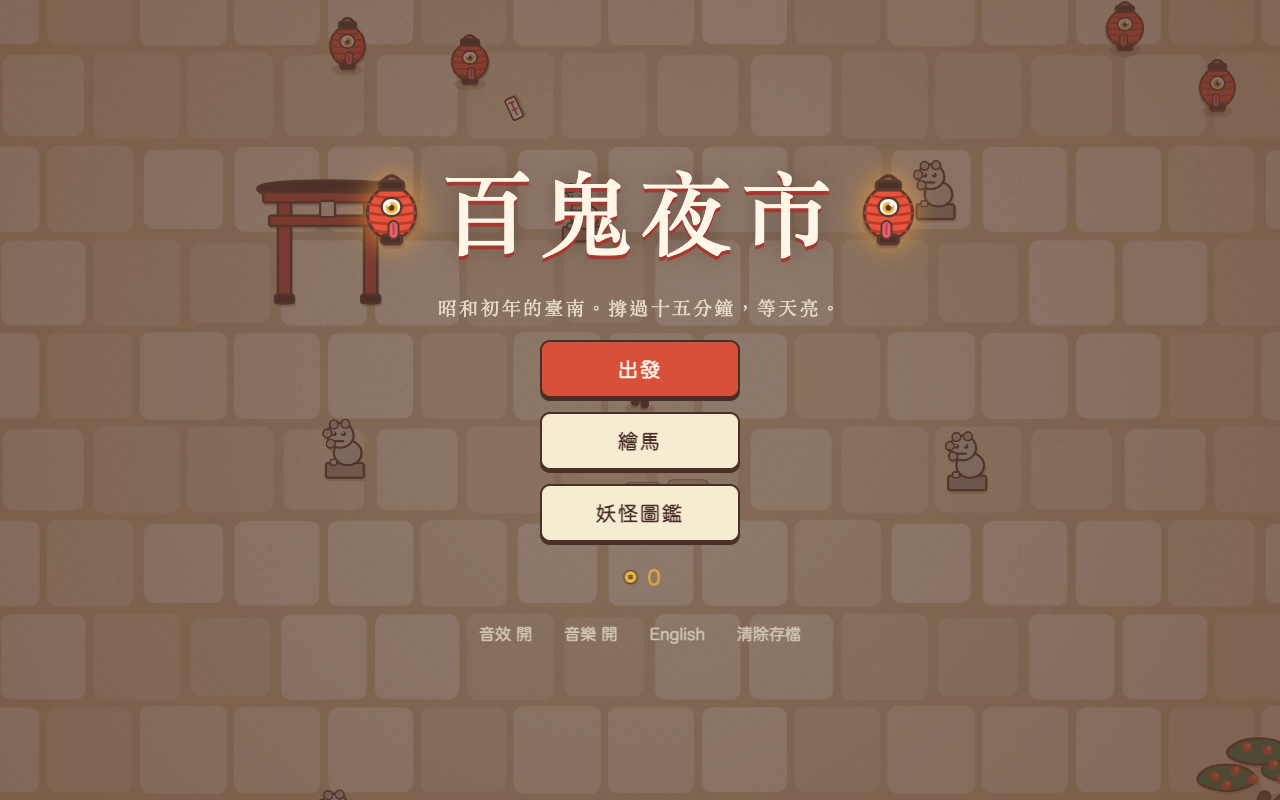
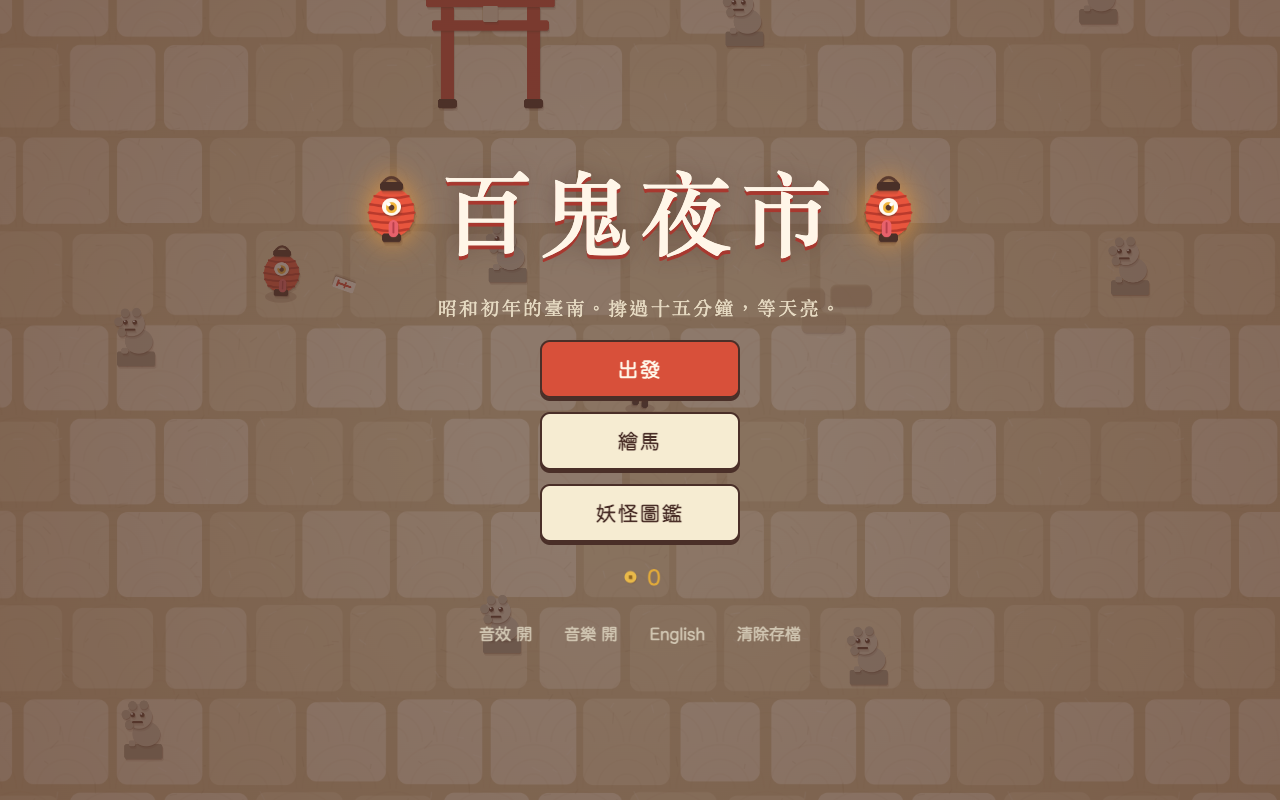
Yokai Night Market: sprites are stacked paper sheets
The drawing kit no longer outlines anything. Every filled shape and thick strip
is its own cut sheet, pressed onto the stack with a contact shadow and a soft
one, so volume comes from stacking order alone. Thin lines and dots are printed
on the top sheet. Figures rock around their feet instead of squashing, and the
hit flash is vermilion so it shows on the light ground.

Claude-Session: https://claude.ai/code/session_01SWmRBCoZi5zDewCs1B5KjF

diff --git a/yokai-night-market/src/render/kit.ts b/yokai-night-market/src/render/kit.ts
@@ -1,36 +1,63 @@
-// Small vector drawing kit. Every sprite is drawn once into an offscreen canvas in a
-// "paper sticker" style: flat fills, one dark outline, round joins.
+// Paper-doll drawing kit.
+//
+// Nothing here is outlined. A sprite is a stack of cut paper sheets: every filled shape
+// (and every thick strip) is its own sheet laid on top of the ones before it, and each sheet
+// drops a tight contact shadow plus a softer one onto whatever lies beneath. Volume comes only
+// from that stacking order, so a draw function should go back to front: far limbs, body,
+// head, hair, then what is glued on the face. Thin lines and dots are "printed" on the sheet
+// that is currently on top and cast no shadow.
 export type C = CanvasRenderingContext2D;
 export const TAU = Math.PI * 2;
 export const INK = '#5a3a2e';
-const LINE = 0.72; // outlines are kept thin so shapes read as cut paper
-export const RES = 3; // sprite supersampling
+const LINE = 0.72;      // printed line weight
+const SHADE = '#5a3626'; // colour of the shadow one sheet casts on the next
+export const RES = 3;   // sprite supersampling
 
 export interface Sprite { c: HTMLCanvasElement; w: number; h: number; ox: number; oy: number; flash?: HTMLCanvasElement; url?: string }
 
-// The draw callback works in logical pixels with the origin at the feet (bottom centre), y up negative.
-export function sprite(w: number, h: number, draw: (c: C) => void, pad = 4): Sprite {
+interface Stack { top: C; out: C; sil: C }
+let stack: Stack | null = null;
+
+// Presses the sheet being drawn onto the stack, with its shadows, and starts a fresh one.
+function press(st: Stack): void {
+  const cv = st.top.canvas, sil = st.sil;
+  sil.globalCompositeOperation = 'source-over';
+  sil.clearRect(0, 0, cv.width, cv.height);
+  sil.drawImage(cv, 0, 0);
+  sil.globalCompositeOperation = 'source-in';
+  sil.fillStyle = SHADE; sil.fillRect(0, 0, cv.width, cv.height);
+  st.out.globalAlpha = 0.13; st.out.drawImage(sil.canvas, 0.9 * RES, 1.9 * RES);
+  st.out.globalAlpha = 0.3; st.out.drawImage(sil.canvas, 0.35 * RES, 0.75 * RES);
+  st.out.globalAlpha = 1; st.out.drawImage(cv, 0, 0);
+  st.top.save(); st.top.setTransform(1, 0, 0, 1, 0, 0); st.top.clearRect(0, 0, cv.width, cv.height); st.top.restore();
+}
+
+// Starts a new sheet above everything drawn so far. Filled shapes call this themselves;
+// call it by hand only to lift a group of printed marks onto its own layer.
+export function sheet(c: C): void {
+  if (stack && stack.top === c) press(stack);
+}
+
+function layer(w: number, h: number): C {
   const cv = document.createElement('canvas');
+  cv.width = w; cv.height = h;
+  return cv.getContext('2d')!;
+}
+
+// The draw callback works in logical pixels with the origin at the feet (bottom centre), y up negative.
+export function sprite(w: number, h: number, draw: (c: C) => void, pad = 5): Sprite {
   const W = w + pad * 2, H = h + pad * 2;
-  cv.width = Math.ceil(W * RES); cv.height = Math.ceil(H * RES);
-  const art = document.createElement('canvas');
-  art.width = cv.width; art.height = cv.height;
-  const c = art.getContext('2d')!;
-  c.scale(RES, RES);
-  c.translate(W / 2, H - pad);
-  c.lineJoin = 'round'; c.lineCap = 'round';
-  draw(c);
-  // a soft offset silhouette under the art, like one sheet of paper lying on another
-  const sil = document.createElement('canvas');
-  sil.width = cv.width; sil.height = cv.height;
-  const sc = sil.getContext('2d')!;
-  sc.drawImage(art, 0, 0);
-  sc.globalCompositeOperation = 'source-in';
-  sc.fillStyle = '#6a4632'; sc.fillRect(0, 0, sil.width, sil.height);
-  const out = cv.getContext('2d')!;
-  out.globalAlpha = 0.3; out.drawImage(sil, 0.7 * RES, 1.5 * RES);
-  out.globalAlpha = 1; out.drawImage(art, 0, 0);
-  return { c: cv, w: W, h: H, ox: W / 2, oy: H - pad };
+  const pw = Math.ceil(W * RES), ph = Math.ceil(H * RES);
+  const out = layer(pw, ph), top = layer(pw, ph), sil = layer(pw, ph);
+  top.scale(RES, RES);
+  top.translate(W / 2, H - pad);
+  top.lineJoin = 'round'; top.lineCap = 'round';
+  const prev = stack;
+  stack = { top, out, sil };
+  draw(top);
+  press(stack);
+  stack = prev;
+  return { c: out.canvas, w: W, h: H, ox: W / 2, oy: H - pad };
 }
 
 export function flashOf(s: Sprite): HTMLCanvasElement {
@@ -40,7 +67,7 @@ export function flashOf(s: Sprite): HTMLCanvasElement {
     const c = cv.getContext('2d')!;
     c.drawImage(s.c, 0, 0);
     c.globalCompositeOperation = 'source-atop';
-    c.fillStyle = '#ffffff';
+    c.fillStyle = '#ff8a6a';
     c.fillRect(0, 0, cv.width, cv.height);
     s.flash = cv;
   }
@@ -52,9 +79,21 @@ export function urlOf(s: Sprite): string {
   return s.url;
 }
 
+// Fills the current path. A shape given a line weight is a cut sheet of its own (the weight is
+// only a flag now: sheets have no outline); weight 0 prints the fill on the sheet below.
+// With no fill, the path is printed as a thin line.
 export function fs(c: C, fill: string | null, lw = 2): void {
-  if (fill) { c.fillStyle = fill; c.fill(); }
-  if (lw > 0) { c.lineWidth = lw * LINE; c.strokeStyle = INK; c.stroke(); }
+  if (fill) {
+    if (lw > 0) sheet(c);
+    c.fillStyle = fill; c.fill();
+  } else if (lw > 0) { c.lineWidth = lw * LINE; c.strokeStyle = INK; c.stroke(); }
+}
+
+// A stroke: thick coloured strokes are paper strips (their own sheet), thin ones are printed.
+function strip(c: C, col: string, lw: number): void {
+  if (col === INK && lw >= 4) return;          // old outline underlay, not part of the paper logic
+  if (col !== INK && lw >= 2.4) sheet(c);
+  c.lineWidth = col === INK ? lw * 0.85 : lw; c.strokeStyle = col; c.stroke();
 }
 
 export function ell(c: C, x: number, y: number, rx: number, ry: number, fill: string | null, lw = 2, rot = 0): void {
@@ -102,12 +141,12 @@ export function line(c: C, pts: number[], col = INK, lw = 2): void {
   c.beginPath();
   c.moveTo(pts[0], pts[1]);
   for (let i = 2; i < pts.length; i += 2) c.lineTo(pts[i], pts[i + 1]);
-  c.lineWidth = lw; c.strokeStyle = col; c.stroke();
+  strip(c, col, lw);
 }
 
 export function curve(c: C, x0: number, y0: number, cx: number, cy: number, x1: number, y1: number, col = INK, lw = 2): void {
   c.beginPath(); c.moveTo(x0, y0); c.quadraticCurveTo(cx, cy, x1, y1);
-  c.lineWidth = lw; c.strokeStyle = col; c.stroke();
+  strip(c, col, lw);
 }
 
 export function dot(c: C, x: number, y: number, r: number, col: string): void {

diff --git a/yokai-night-market/src/render/scene.ts b/yokai-night-market/src/render/scene.ts
@@ -19,9 +19,9 @@ function push(y: number, kind: number, ref: unknown, x = 0, key = ''): void {
   itemCount++;
 }
 
-function put(c: Ctx, s: Sprite, x: number, y: number, flip = 1, sx = 1, sy = 1, img: CanvasImageSource = s.c): void {
-  if (flip === 1 && sx === 1 && sy === 1) { c.drawImage(img, x - s.ox, y - s.oy, s.w, s.h); return; }
-  c.save(); c.translate(x, y); c.scale(flip * sx, sy);
+function put(c: Ctx, s: Sprite, x: number, y: number, flip = 1, sx = 1, sy = 1, img: CanvasImageSource = s.c, rot = 0): void {
+  if (flip === 1 && sx === 1 && sy === 1 && rot === 0) { c.drawImage(img, x - s.ox, y - s.oy, s.w, s.h); return; }
+  c.save(); c.translate(x, y); if (rot) c.rotate(rot); c.scale(flip * sx, sy);
   c.drawImage(img, -s.ox, -s.oy, s.w, s.h);
   c.restore();
 }
@@ -44,7 +44,9 @@ function gemKey(p: Pickup): string {
 function drawEnemy(c: Ctx, run: Run, e: Enemy): void {
   const s = spr(e.def.id);
   const wob = e.def.ai === 'still' ? 0 : Math.sin(run.t * 9 + e.uid * 1.3);
-  let sy = 1 + wob * 0.045, sx = 1 - wob * 0.03, lift = 0;
+  // a paper doll on a stick: it rocks around its feet, it does not squash
+  const rock = wob * (e.boss ? 0.035 : 0.075);
+  let sy = 1, sx = 1, lift = 0;
   if (e.def.ai === 'hop') { const ph = e.t % 0.9; if (ph < 0.45) lift = Math.sin((ph / 0.45) * Math.PI) * 9; }
   if (e.def.ai === 'float' || e.def.id === 'suiki' || e.def.id === 'ushi') lift = 4 + Math.sin(run.t * 3 + e.uid) * 2.5;
   const k = e.elite ? 1.55 : 1;
@@ -57,10 +59,10 @@ function drawEnemy(c: Ctx, run: Run, e: Enemy): void {
     c.beginPath(); c.ellipse(e.x, e.y - 2, e.r * 1.25, e.r * 0.55, 0, 0, TAU); c.strokeStyle = '#f7c948'; c.lineWidth = 2.5; c.stroke();
     c.restore();
   }
-  put(c, s, x, e.y - lift, e.face, sx, sy, e.flash > 0 ? flashOf(s) : s.c);
+  put(c, s, x, e.y - lift, e.face, sx, sy, e.flash > 0 ? flashOf(s) : s.c, rock);
   if (winding) {
     c.save(); c.globalAlpha = 0.35 + Math.sin(run.t * 30) * 0.2; c.globalCompositeOperation = 'lighter';
-    put(c, s, x, e.y - lift, e.face, sx, sy, flashOf(s));
+    put(c, s, x, e.y - lift, e.face, sx, sy, flashOf(s), rock);
     c.restore();
   }
   if (e.elite && e.hp < e.maxHp) {
@@ -76,7 +78,7 @@ function drawPlayer(c: Ctx, run: Run): void {
   const s = spr(`hero:${run.hero.id}:${frame}`);
   if (p.inv > 0 && p.hurt > 0.12 && Math.floor(run.t * 20) % 2 === 0) c.globalAlpha = 0.45;
   const bob = p.moving ? Math.abs(Math.sin(run.t * 14)) * 1.6 : Math.sin(run.t * 3) * 0.5;
-  put(c, s, p.x, p.y - bob, p.face, 1, 1, p.hurt < 0.12 ? flashOf(s) : s.c);
+  put(c, s, p.x, p.y - bob, p.face, 1, 1, p.hurt < 0.12 ? flashOf(s) : s.c, p.moving ? Math.sin(run.t * 14) * 0.07 : 0);
   c.globalAlpha = 1;
   if (p.hp < p.maxHp) {
     const w = 30, y = p.y + 7;

diff --git a/yokai-night-market/README.md b/yokai-night-market/README.md
@@ -4,6 +4,12 @@ A survivors-style action game set in Tainan around 1930: walk from the shrine ap
 
 Plain TypeScript and Canvas 2D, no engine and no asset files. Sprites are drawn in code at load; sound is synthesised with WebAudio.
 
+## Paper-doll art
+
+Everything on screen is built the way a paper doll is: no outlines, only cut sheets stacked back to front. In `src/render/kit.ts` every filled shape, and every thick coloured strip, becomes its own sheet; when the next sheet is laid on top the previous one is pressed onto the stack with a tight contact shadow and a softer wide one. Volume comes only from that order, so a draw function goes far limbs, body, head, hair, then what is glued on the face. Thin lines and dots are printed on whichever sheet is on top and cast no shadow. `sheet(c)` lifts a group of printed marks onto a layer of its own.
+
+The stack is flattened once into a sprite, so drawing costs the same as before. In motion a figure rocks around its feet like a doll on a stick; it never squashes. Colours follow washi paper: cream grounds with a faint wave pattern, vermilion, mustard, olive, teal and brown.
+
 ```
 npm run dev -w yokai-night-market      # http://localhost:5200  (add ?debug for the test hooks)
 npm run build -w yokai-night-market
@@ -56,7 +62,7 @@ src/game/     the simulation: no DOM, fixed 60 Hz step, seeded rng
   enemies.ts  spawning, AI, boss moves, bullets
   run.ts      createRun / step / level-up choices / offering boxes
   bot.ts      steering bot for the sim, the tests and the menu background
-src/render/   kit.ts (vector helpers), yokai.ts, items.ts (heroes, shots, icons, props), sprites.ts (cache + ground tiles), scene.ts
+src/render/   kit.ts (stacked paper sheets), yokai.ts, items.ts (heroes, shots, icons, props), sprites.ts (cache + ground tiles), scene.ts
 src/ui/       DOM menus (screens.ts) and the HUD (hud.ts)
 src/core/     save, i18n, audio, input
 sim/          headless balance run
